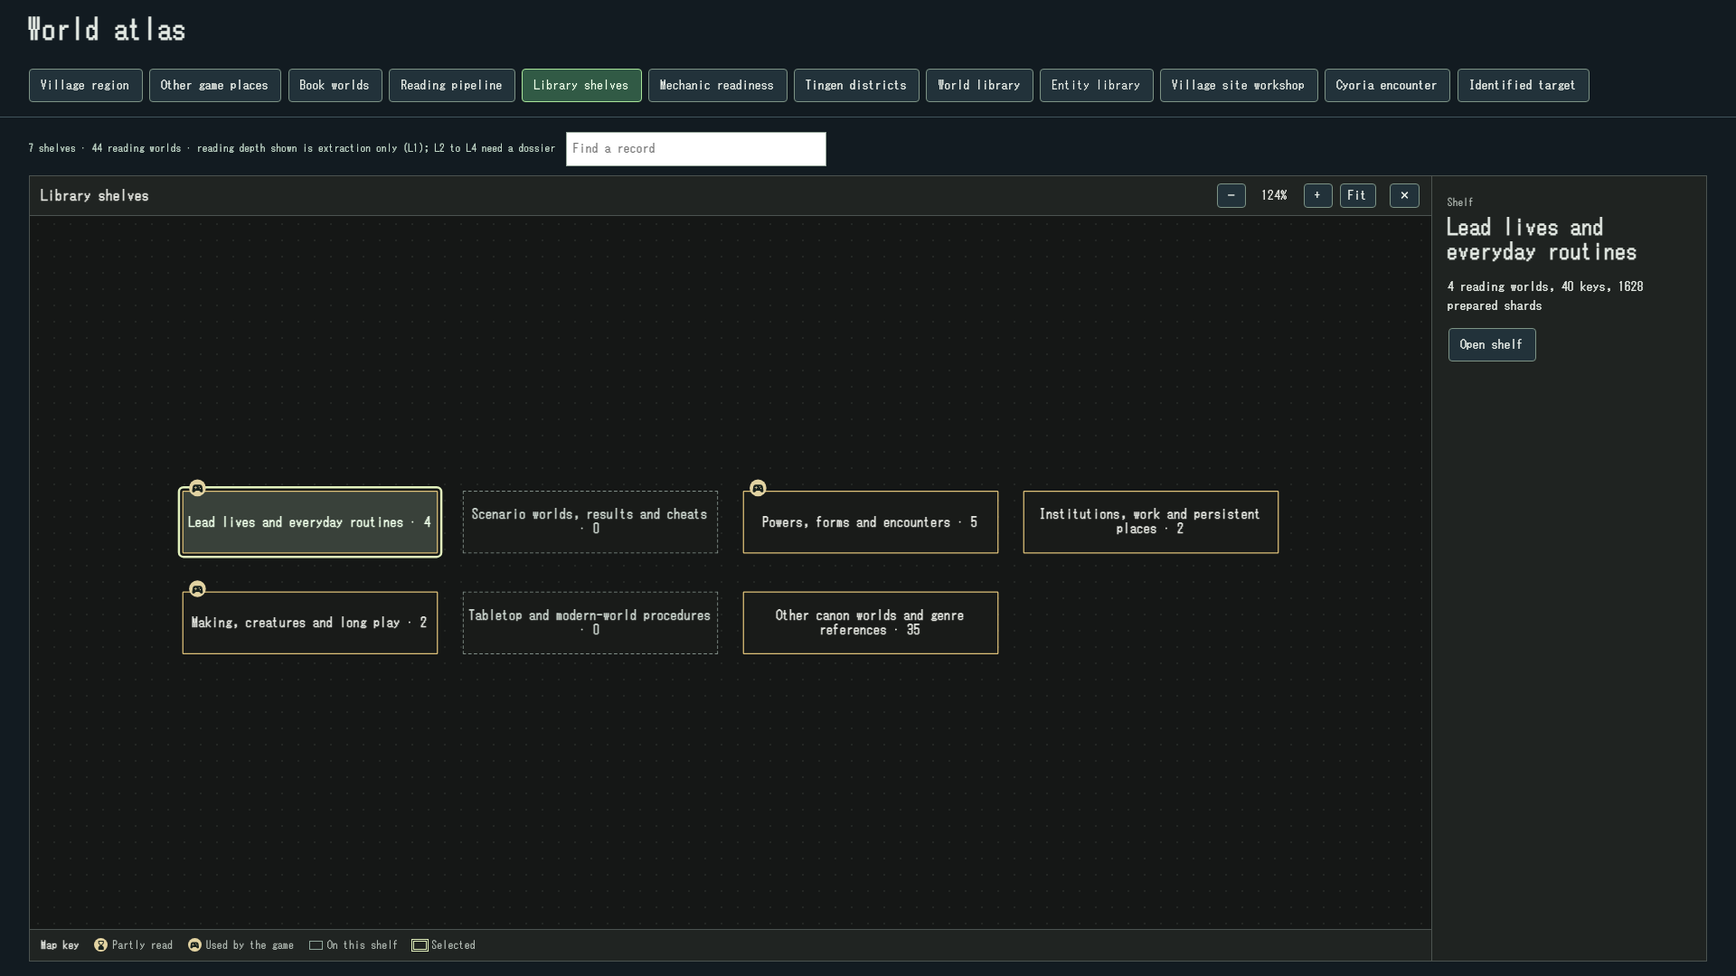
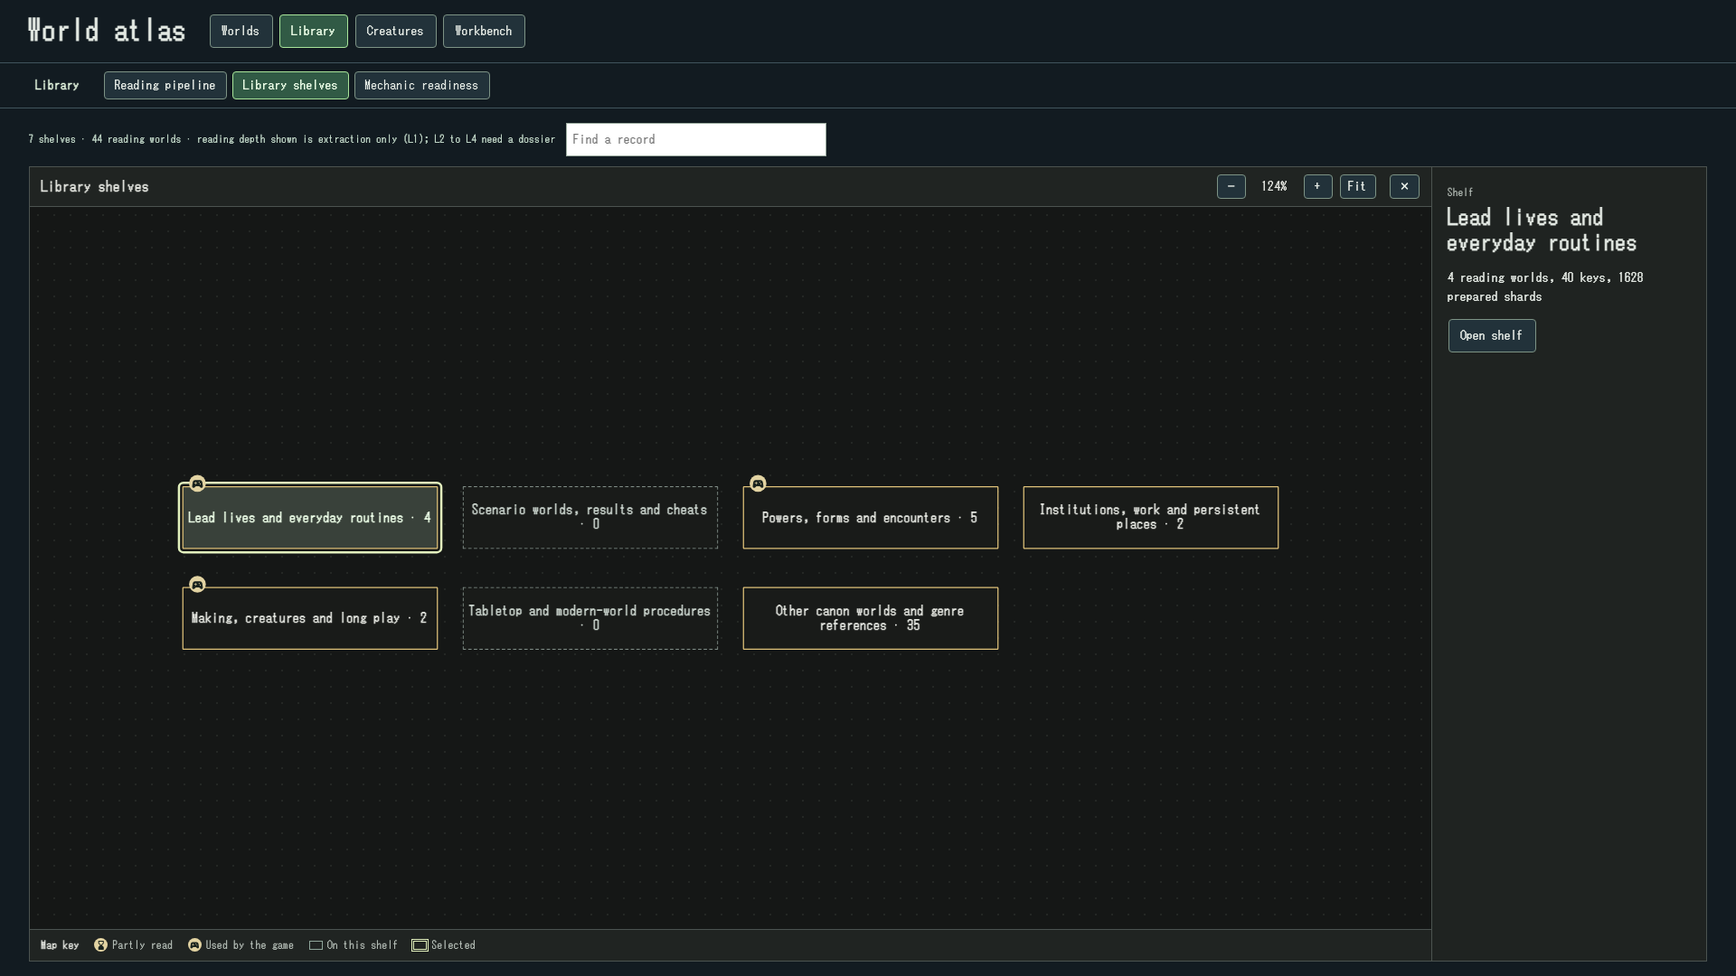
World atlas: world-first shell with sections and breadcrumb
Replaces twelve flat tabs with four sections (Worlds, Library, Creatures,
Workbench). A Worlds index opens world pages that own their places,
registered locations, walk districts or encounter, and reading lane.
Library views link back to world pages, Tingen walk districts move onto
the shared box canvas, Book worlds search selects the place it finds,
and old tab links redirect.

Proof: work/atlas-ui-1121/prove-shell.mjs runs the apartment-walk-reading
task in four clicks (six before) with no page errors; earlier atlas proofs
updated to the new routes and pass. Screenshots re-taken.

diff --git a/prototypes/world-atlas/index.html b/prototypes/world-atlas/index.html
@@ -22,7 +22,7 @@ header,main{max-width:none;padding-inline:clamp(.8rem,2vw,2rem)}
 @media(max-width:750px){.atlas-workspace{grid-template-columns:1fr}.atlas-plane{min-width:480px}.atlas-workspace aside{max-height:none}}
 .map-scale{display:flex;justify-content:flex-end;align-items:center;gap:.4rem;margin-top:.35rem}.map-scale button{padding:.1em .6em}.map-scale output{font-variant-numeric:tabular-nums}.atlas-stop{max-width:13rem}
 </style><link rel="stylesheet" href="/styles/ui_tokens.css"><link rel="stylesheet" href="/styles/material_icons.css"><link rel="stylesheet" href="/field-record.css"><link rel="stylesheet" href="/canvas.css">
-<header><h1>World atlas</h1><nav aria-label="Atlas pages"></nav></header><main id="main">Loading world records…</main>
+<header><h1>World atlas</h1><nav aria-label="Atlas sections"></nav></header><div class="atlas-trail" aria-label="Where you are"></div><main id="main">Loading world records…</main>
 <script type="module">
 import {boxCanvas, element as el} from '/canvas.mjs';
 import {createCreatureRecord} from '/creature-record.js';
@@ -30,20 +30,75 @@ import {dangerLabel} from '/map-marks.js';
 import {placeMarks, villageDiagram} from '/village-layout.mjs';
 import {bookWorlds} from '/book-worlds.mjs';
 import {otherPlaces} from '/other-places.mjs';
-import {readingPipeline, libraryShelves, mechanicReadiness} from '/library-views.mjs';
+import {readingPipeline, libraryShelves, mechanicReadiness, libraryWorlds} from '/library-views.mjs';
 import {creatureMarks, creatureOverview, creatureShelf, creatureNeighborhood, libraryEdges} from '/creature-layout.mjs';
 
 const main=document.querySelector('main'), nav=document.querySelector('nav');
 const button=(label,fn)=>{const b=el('button',label);b.type='button';b.onclick=fn;return b};
-const list=rows=>{const ul=el('ul');for(const r of rows)ul.append(el('li',r));return ul};
+const list=rows=>{const ul=el('ul');for(const r of rows)ul.append(el('li',r));return ul};const listOf=list;
 const detail=(title,value)=>{const d=el('details');d.append(el('summary',title),el('pre',value));return d};
 const data=await (await fetch('/data')).json();data.bookIndex={};
 let draft={...data.draft};
-const pages={'Village region':regionalMap,'Other game places':()=>otherPlaces({main,data,controls,finder,list,closeCanvas}),'Book worlds':()=>bookWorlds({main,data,controls,finder,routeButtons,button,list,closeCanvas}),'Reading pipeline':()=>readingPipeline({main,data,controls,finder,list,button,closeCanvas}),'Library shelves':()=>libraryShelves({main,data,controls,finder,list,button,closeCanvas}),'Mechanic readiness':()=>mechanicReadiness({main,data,controls,finder,list,button,closeCanvas}),'Tingen districts':map,'World library':worldLibrary,'Entity library':library,'Village site workshop':editor,'Cyoria encounter':encounter,'Identified target':target};
-const slug=name=>name.toLowerCase().replaceAll(' ','-');
-function showPage(){const name=Object.keys(pages).find(n=>'#'+slug(n)===location.hash)||Object.keys(pages)[0];
- for(const b of nav.children)b.setAttribute('aria-pressed',String(b.textContent===name));main.replaceChildren();pages[name]();}
-for(const name of Object.keys(pages))nav.append(button(name,()=>{location.hash=slug(name)}));
+// One shell: four sections; a world owns its places, walks and reading. Old tab links still land.
+const WORLDS=[
+ {id:'village',label:'The Village',note:'Native region, where a fresh game starts',views:['places']},
+ {id:'lotm',label:'Lord of the Mysteries',cast:'lotm',group:'Lord of the Mysteries',views:['places','locations','districts','reading']},
+ {id:'mol',label:'Mother of Learning',cast:'mol',group:'Mother of Learning',views:['places','locations','encounter','reading']},
+ {id:'hp',label:'Harry Potter',group:'Harry Potter',views:['locations','reading']},
+ {id:'ri',label:'Reverend Insanity',group:'Reverend Insanity',views:['locations','reading']},
+ {id:'ss',label:'Shadow Slave',group:'Shadow Slave',views:['locations','reading']},
+ {id:'paradise',label:'Reincarnation Paradise',group:'Reincarnation Paradise',views:['locations']},
+ {id:'proto23',label:'Proto23 reference',group:'Proto23 reference',views:['locations']},
+ {id:'testpacks',label:'Private test packs',group:'Private test packs',views:['locations']},
+ {id:'frontier',label:'Frontier outposts',note:'Registered, but no route from the Village at a fresh start',group:'Frontier, not reached from the Village',views:['locations']},
+];
+const worldById=new Map(WORLDS.map(w=>[w.id,w]));
+const VIEW_LABELS={places:'Places',locations:'Registered locations',districts:'Walk districts',encounter:'Cyoria encounter',reading:'Reading',
+ pipeline:'Reading pipeline',shelves:'Library shelves',mechanics:'Mechanic readiness',kinds:'Creatures and kinds',observations:'Identified target',site:'Village site workshop'};
+const SECTIONS=[{id:'worlds',label:'Worlds'},{id:'library',label:'Library',views:['pipeline','shelves','mechanics']},
+ {id:'creatures',label:'Creatures',views:['kinds','observations']},{id:'workbench',label:'Workbench',views:['site']}];
+const LEGACY={'village-region':'world/village/places','other-game-places':'worlds','book-worlds':'world/lotm/places','reading-pipeline':'library/pipeline',
+ 'library-shelves':'library/shelves','mechanic-readiness':'library/mechanics','tingen-districts':'world/lotm/districts','world-library':'worlds',
+ 'entity-library':'creatures/kinds','village-site-workshop':'workbench/site','cyoria-encounter':'world/mol/encounter','identified-target':'creatures/observations'};
+const go=hash=>{location.hash=hash};
+function route(){
+ const raw=location.hash.slice(1);if(LEGACY[raw]){history.replaceState(null,'','#'+LEGACY[raw]);return route()}
+ const [section='worlds',a,b]=raw.split('/');
+ if(section==='world'&&worldById.has(a)){const w=worldById.get(a);return {section:'worlds',world:w,view:w.views.includes(b)?b:w.views[0]}}
+ const s=SECTIONS.find(x=>x.id===section)||SECTIONS[0];
+ return {section:s.id,view:s.views?.includes(a)?a:s.views?.[0]};
+}
+const trail=document.querySelector('.atlas-trail');
+function crumb(label,hash){const b=button(label,()=>go(hash));b.className='trail-link';return b}
+function showPage(){
+ const r=route();
+ for(const b of nav.children)b.setAttribute('aria-pressed',String(b.dataset.section===r.section));
+ trail.replaceChildren();
+ const crumbs=el('nav',null,'trail-crumbs');crumbs.setAttribute('aria-label','Breadcrumb');
+ const views=el('nav',null,'trail-views');views.setAttribute('aria-label','Views');
+ const section=SECTIONS.find(s=>s.id===r.section);
+ crumbs.append(crumb(section.label,r.section==='worlds'?'worlds':r.section));
+ let list=[];
+ if(r.world){crumbs.append(el('span','›','trail-sep'),crumb(r.world.label,'world/'+r.world.id));list=r.world.views.map(v=>[v,'world/'+r.world.id+'/'+v])}
+ else if(section.views)list=section.views.map(v=>[v,r.section+'/'+v]);
+ for(const [v,hash] of list){const b=button(VIEW_LABELS[v],()=>go(hash));b.setAttribute('aria-pressed',String(v===r.view));views.append(b)}
+ trail.append(crumbs);if(list.length>1)trail.append(views);
+ main.replaceChildren();
+ const shared={main,data,controls,finder,list:listOf,button,routeButtons,closeCanvas};
+ if(r.world)return worldView(r.world,r.view,shared);
+ if(r.section==='worlds')return worldsIndex();
+ ({pipeline:()=>readingPipeline(shared),shelves:()=>libraryShelves(shared),mechanics:()=>mechanicReadiness(shared),
+   kinds:()=>library(),observations:target,site:editor})[r.view]();
+}
+function worldView(w,view,shared){
+ if(view==='places'&&w.id==='village')return regionalMap();
+ if(view==='places')return bookWorlds({...shared,worldId:w.cast,fixed:true});
+ if(view==='locations')return otherPlaces({...shared,group:w.group,title:w.label+' · registered locations'});
+ if(view==='districts')return map();
+ if(view==='encounter')return encounter();
+ if(view==='reading')return readingPipeline({...shared,worldId:w.id,fixed:true});
+}
+for(const s of SECTIONS){const b=button(s.label,()=>go(s.id));b.dataset.section=s.id;nav.append(b)}
 window.addEventListener('hashchange',showPage);
 const recById=new Map(data.library.map(r=>[r.id,r]));
 function tree(parent,label,value,opened=false){
@@ -55,13 +110,6 @@ function tree(parent,label,value,opened=false){
  for(const [k,v] of Object.entries(value))tree(branch,k,v);parent.append(branch);
 }
 function controls(){const bar=el('nav');bar.className='atlas-tools';main.append(bar);return bar}
-function localCanvas({center,peers,describe,follow,relation}){
- const columns=Math.min(4,Math.max(1,Math.ceil(peers.length/3)));
- const rows=Math.ceil(peers.length/columns)||1;
- const nodes=[{kind:center.kind,label:center.label,x:50,y:8},...peers.map((p,i)=>({kind:p.kind,label:p.label,x:(i%columns+.5)*100/columns,y:26+Math.floor(i/columns)*65/Math.max(1,rows-1)}))];
- const edges=peers.map((_,i)=>[0,i+1]);
- return graph(nodes,edges,(i,side)=>{const record=i?peers[i-1]:center;side.append(el('small',record.kind),el('h2',record.label));if(i){side.append(el('p',relation(record)));if(!record.facet)side.append(button('Center on '+record.label,()=>follow(record)))}describe(record,side)},Math.max(470,rows*105+130));
-}
 function finder(bar,records,open){
  const search=el('input'),choices=el('div');search.type='search';search.placeholder='Find a record';search.setAttribute('aria-label',search.placeholder);
  bar.append(search,choices);search.oninput=()=>{choices.replaceChildren();const q=search.value.trim().toLowerCase();if(!q)return;
@@ -78,7 +126,8 @@ function routeButtons(links, go) {
  }
  return rows;
 }
-const closeCanvas = () => {location.hash = 'world-library'};
+// Closing a canvas goes up one level: a world view to its world's first view, anything else to Worlds.
+const closeCanvas = () => {const r=route();go(r.world&&r.view!==r.world.views[0]?'world/'+r.world.id:'worlds')};
 function regionalMap(id, local = false) {
  main.replaceChildren();
  const byId = new Map(data.frontier.map(place => [place.id, place]));
@@ -121,16 +170,45 @@ function regionalMap(id, local = false) {
   }
  });
 }
-function worldLibrary(world){
- main.replaceChildren();const locations=data.library.filter(r=>r.group==='Locations'),groups=Map.groupBy(locations,r=>r.world);
- const names={'base.frontier':'Frontier residences','book.mol':'Cyoria','book.hp.lead':'Harry’s starting locations','book.hp.lead.world':'Harry’s residences','reference.proto23.village':'Proto23 Village','Tingen':'Tingen districts'};
- const bar=controls();bar.append(el('strong','World library'),el('small','Boxes group indexed locations by source collection.'));
- if(world)bar.append(button('All collections',()=>worldLibrary()));
- const scope=world?groups.get(world):locations;finder(bar,scope,rec=>library(rec.id));
- const center={kind:world?'Source collection':'Atlas',label:world?(names[world]||world):'Indexed worlds'};
- const peers=world?scope.map(r=>({...r,kind:'Location'})):[...groups].map(([id,rows])=>({id,label:names[id]||id,kind:'Source collection',count:rows.length}));
- localCanvas({center,peers,follow:r=>world?library(r.id):worldLibrary(r.id),relation:()=>world?'Location in collection':'Indexed collection',
- describe:(r,side)=>{if(r.count)side.append(el('p',r.count+' location records'));if(r.fields)for(const [k,v] of Object.entries(r.fields))tree(side,k,v);if(!r.id)side.append(el('p',scope.length+' locations in this view.'))}});
+const worldMarks=[{key:'walk',icon:'directions_walk',label:'Has places you can walk'},{key:'partial',icon:'hourglass_bottom',label:'Reading in progress'},
+ {key:'read',icon:'menu_book',label:'Read through'},{key:'selected',label:'Selected'}];
+function worldStats(w){
+ const reading=libraryWorlds(data).find(r=>r.id===w.id),cast=w.cast&&data.books?.[w.cast];
+ const located=w.group?data.others.filter(r=>r.group===w.group).length:0;
+ const places=w.id==='village'?data.frontier.length:(cast?cast.places.length:0);
+ const walk=w.id==='village'?data.frontier.length:cast?(cast.places.some(p=>p.district)?cast.places.filter(p=>p.district).length:cast.places.length):0;
+ return {reading,places,located,walk};
+}
+function worldsIndex(){
+ const stats=new Map(WORLDS.map(w=>[w.id,worldStats(w)]));
+ const readingOnly=libraryWorlds(data).filter(r=>!worldById.has(r.id));
+ const bar=controls();
+ bar.append(el('small',`${WORLDS.length} worlds in the game · ${readingOnly.length} more read but not used by the game yet`));
+ finder(bar,WORLDS,w=>go('world/'+w.id));
+ const order=[['village','lotm','mol'],['hp','ri','ss','paradise'],['proto23','testpacks','frontier','library']];
+ const nodes=[];
+ order.forEach((row,r)=>row.forEach((id,c)=>{
+  const x=(c-(row.length-1)/2)*250,y=r*110;
+  if(id==='library')return nodes.push({id,label:`Read, not in the game · ${readingOnly.length}`,x,y,w:220,h:58,group:'library',marks:[]});
+  const w=worldById.get(id),st=stats.get(id),count=st.places||st.located;
+  nodes.push({id,label:`${w.label} · ${count}`,x,y,w:220,h:58,group:st.walk?'walk':'registered',
+   marks:[...(st.walk?[worldMarks[0]]:[]),...(st.reading?.readState==='partial'?[worldMarks[1]]:[]),...(st.reading?.readState==='complete'?[worldMarks[2]]:[])]});
+ }));
+ boxCanvas({parent:main,title:'Worlds',nodes,edges:[],marks:worldMarks,kind:'worlds',initial:'village',
+  select(id,side){
+   if(id==='library'){side.append(el('small','Library'),el('h2','Read, not in the game'),el('p',readingOnly.length+' reading worlds have no game consumer yet.'),
+    listOf(readingOnly.slice(0,8).map(r=>r.label+' · '+{complete:'read through',partial:'partly read',none:'prepared'}[r.readState])),button('Open reading pipeline',()=>go('library/pipeline')));return}
+   const w=worldById.get(id),st=stats.get(id);
+   side.append(el('small',st.walk?'In the game · walkable':'In the game · registered locations'),el('h2',w.label));
+   if(w.note)side.append(el('p',w.note));
+   side.append(listOf([
+    st.places?`${st.places} places${w.cast?' from the cast pack':''}`:null,
+    st.located&&w.id!=='village'?`${st.located} registered locations`:null,
+    st.walk&&w.cast?`${st.walk} on a walk`:null,
+    st.reading?`Reading: ${st.reading.keys.length} keys, ${Math.round(st.reading.coverage*100)}% of passes done`:'No reading keys',
+   ].filter(Boolean)));
+   side.append(routeButtons(w.views.map(v=>({id:v,label:VIEW_LABELS[v]})),v=>go('world/'+id+'/'+v)));
+  }});
 }
 const libraryGroup = rec => rec.group === 'Living kinds' ? rec.world : rec.group;
 const groupNames = new Map([
@@ -143,7 +221,7 @@ function inspectRecord(rec, side) {
  if (rec.id === 'household.moss') {
   const record = createCreatureRecord(document, {expanded:true});
   record.update(data.target[0]);
-  side.append(record.node, button('Compare observations', () => {location.hash = 'identified-target'}));
+  side.append(record.node, button('Compare observations', () => go('creatures/observations')));
   return;
  }
  const family = el('div', null, 'canvas-record');
@@ -232,18 +310,20 @@ function graph(nodes,edges,onSelect,height){
  return {select,rename:(i,text)=>buttons[i].lastChild.textContent=text,focus:i=>buttons[i].focus({preventScroll:true}),reveal:i=>{const b=buttons[i];viewport.scrollTo({left:b.offsetLeft-viewport.clientWidth/2,top:b.offsetTop-viewport.clientHeight/2})}};
 }
 function map(){
- const places=data.places;
- const search=el('input'),matches=el('div');search.type='search';search.placeholder='Find a place, officer or command';search.setAttribute('aria-label',search.placeholder);main.append(search,matches);
- const nodes=places.map((p,i)=>({kind:p.district,label:p.name.replace(/^Tingen /,''),x:[20,50,80,50][i],y:[50,19,50,81][i]}));
- const edges=[];places.forEach((p,i)=>p.routes.forEach(r=>{const j=places.findIndex(v=>v.name===r.dest);if(j>i)edges.push([i,j])}));
- const board=graph(nodes,edges,(i,side,select)=>{const p=places[i];side.append(el('small',p.district),el('h2',p.name),el('p',p.team+' jurisdiction'),el('h3','Walks'));
-  for(const r of p.routes)side.append(button(r.dest.replace(/^Tingen /,'')+' · '+r.minutes+' min',()=>select(places.findIndex(v=>v.name===r.dest))));
-  if(p.actions.length)side.append(el('h3','Local actions'));
-  for(const a of p.actions){const row=el('section');row.append(el('strong',a.label));if(a.target)row.append(el('small',data.actors[a.target]||a.target));row.append(detail('Command definition',[a.id,JSON.stringify(a.requires,null,2)].join('\n')));side.append(row)}
- });
- search.oninput=()=>{matches.replaceChildren();const q=search.value.trim().toLowerCase();if(!q)return;places.forEach((p,i)=>{
-  if([p.name,...p.actions.flatMap(a=>[a.label,a.id,a.target,data.actors[a.target]])].join(' ').toLowerCase().includes(q))matches.append(button(p.name,()=>{board.select(i);board.focus(i)}))});
-  if(!matches.childElementCount)matches.textContent='No matching places.'};
+ const places=data.places,short=n=>n.replace(/^Tingen /,'');
+ const at=[[-240,0],[0,-140],[240,0],[0,140]];
+ const nodes=places.map((p,i)=>({id:p.name,label:short(p.name),x:at[i]?.[0]??i*200,y:at[i]?.[1]??260,w:190,h:50,marks:[]}));
+ const edges=[];places.forEach((p,i)=>p.routes.forEach(r=>{const j=places.findIndex(v=>v.name===r.dest);if(j>i)edges.push({from:p.name,to:r.dest,both:true})}));
+ const bar=controls();bar.append(el('small',places.length+' supervised districts with walks and local actions'));
+ // Search reaches officers and commands too, as before.
+ finder(bar,[...places.map(p=>({id:p.name,label:short(p.name)})),...places.flatMap(p=>p.actions.map(a=>({id:p.name+'|'+a.id+' '+(data.actors[a.target]||''),label:a.label+' · '+short(p.name),place:p.name})))],r=>board.select(r.place||r.id,true));
+ const board=boxCanvas({parent:main,title:'Tingen walk districts',nodes,edges,kind:'village',close:closeCanvas,
+  marks:[{key:'route',label:'Walk'},{key:'selected',label:'Selected'}],
+  select(id,side,select){const p=places.find(x=>x.name===id);side.append(el('small',p.district),el('h2',p.name),el('p',p.team+' jurisdiction'),el('h3','Walks'),
+   routeButtons(p.routes.map(r=>({id:r.dest,label:short(r.dest),detail:r.minutes+' min'})),dest=>select(dest,true)));
+   if(p.actions.length)side.append(el('h3','Local actions'));
+   for(const a of p.actions){const row=el('section');row.append(el('strong',a.label));if(a.target)row.append(el('small',data.actors[a.target]||a.target));row.append(detail('Command definition',[a.id,JSON.stringify(a.requires,null,2)].join('\n')));side.append(row)}
+  }});
 }
 function encounter(){for(const e of data.encounters){const a=el('article');a.className='sheet';a.append(el('small',e.place),el('h2',e.name),el('p','Target · '+e.target),el('h3','Opponent actions assigned here'),list(e.actions),detail('Opening conditions',JSON.stringify(e.requires,null,2)));e.turns.forEach((turn,i)=>a.append(el('h3','Exchange '+(i+1)),list(turn)));main.append(a)}}
 function target(){

diff --git a/prototypes/world-atlas/canvas.css b/prototypes/world-atlas/canvas.css
@@ -244,3 +244,14 @@ body > header h1, .box-canvas :is(h2,h3), .canvas-box { font-family: var(--ui-fo
 .box-canvas[data-canvas-kind="library"] .canvas-box[data-group="gap"] { border-color: #e39a8f; }
 .box-canvas[data-canvas-kind="library"] .canvas-box[data-group="shelf"],
 .box-canvas[data-canvas-kind="library"] .canvas-box[data-group="aspect"] { border-width: 2px; border-color: #a5c8e0; }
+/* Shell: sections, breadcrumb and world views share one bar. */
+.atlas-trail { display: flex; flex-wrap: wrap; align-items: center; gap: .4rem 1.2rem; padding: .55rem clamp(.8rem,2vw,2rem); border-bottom: 1px solid #40545c; }
+.trail-crumbs, .trail-views { display: flex; flex-wrap: wrap; align-items: center; gap: .35rem; }
+.trail-link { background: none; border-color: transparent; padding: .2rem .4rem; color: #cfe3d4; }
+.trail-link:last-child { color: #edffe8; font-weight: 600; }
+.trail-sep { color: #7f8c86; }
+.trail-views button { padding: .25rem .7rem; }
+.box-canvas[data-canvas-kind="worlds"] .canvas-box { font-size: 13px; line-height: 1.1; }
+.box-canvas[data-canvas-kind="worlds"] .canvas-box[data-group="walk"] { border-color: #ace79e; }
+.box-canvas[data-canvas-kind="worlds"] .canvas-box[data-group="registered"] { border-color: #a5c8e0; }
+.box-canvas[data-canvas-kind="worlds"] .canvas-box[data-group="library"] { border-style: dashed; border-color: #e0c27a; }

diff --git a/docs/research/ATLAS_TRANSLATION_LAYER_PROPOSAL_2026-11-20.md b/docs/research/ATLAS_TRANSLATION_LAYER_PROPOSAL_2026-11-20.md
@@ -91,3 +91,13 @@ Weibao said do all of them. `library-reading.mjs` projects the reading registry 
 **Proof.** `work/atlas-books-1120/prove-library.mjs`, headless Chrome at 1920×1080, exit 0, no page errors. It checks all 44 pipeline boxes, the LOTM lane (6 stages, 5 edges, all reached, 383 places on a walk), 7 shelves, the 36-world genre shelf, 8 mechanics, and one request (Reverend Insanity, money and trade, routed to read). That request went to a scratch file; the real request file was not created. Screenshots: `reading-pipeline.png`, `reading-pipeline-lotm-lane.png`, `library-shelves.png`, `library-shelf-other.png`, `mechanic-readiness-economy.png`.
 
 **Findings.** F14: twelve worlds are fully read with no game consumer, so reading is ahead of building for them. F15: for every aspect, all five game worlds have pointer rows, so "gap" never appears at this grain; the aspect patterns are too broad to show a missing mechanic. A finer split (for example price rows versus wage rows) would be needed. F16: the scenario and tabletop shelves have holdings in the library index but no reading keys, so the pipeline cannot see them at all.
+
+## Atlas shell reorganisation (built 2026-11-21)
+
+Weibao asked for a more cohesive atlas. The baseline was twelve tabs of equal weight that mixed places, creatures, reading and developer fixtures, drawn three ways (the box canvas, an older percent-positioned graph, and plain sheets). The test task was: find Klein's apartment, check its walk, then check the reading behind it. In the baseline that took six clicks across three tabs, and each tab switch lost the world.
+
+- **O7, low change:** group the tabs and share one toolbar. Kept as part of the build.
+- **O8, world first (built):** four sections, Worlds, Library, Creatures and Workbench. A world page owns its views (Places, Registered locations, Walk districts or Cyoria encounter, Reading) under a breadcrumb. The Worlds index replaces the World library tab and the flat Other game places tab. Library lenses link back to world pages. Tingen walk districts moved onto the shared box canvas, and Book worlds search now selects the place it finds.
+- **O9, one continuous canvas with lenses:** rejected. It needs a single layout across 2,000+ places, and the canvas reads well up to about 72 boxes.
+
+**Proof.** `work/atlas-ui-1121/prove-shell.mjs` ran the task in four clicks from a cold start and exited 0. Old tab links redirect (for example `#tingen-districts` to `#world/lotm/districts`), and closing a canvas goes up one level. The earlier proofs were updated to the new routes and pass, including one that checks that the registered-location views across all worlds add up to the 160 places the Village walk misses. Screenshots are in `docs/representations/evidence/world-atlas-2026-11-21/`. The Village site workshop still uses the older draggable graph, because the box canvas has no drag editing; it now lives under Workbench.
